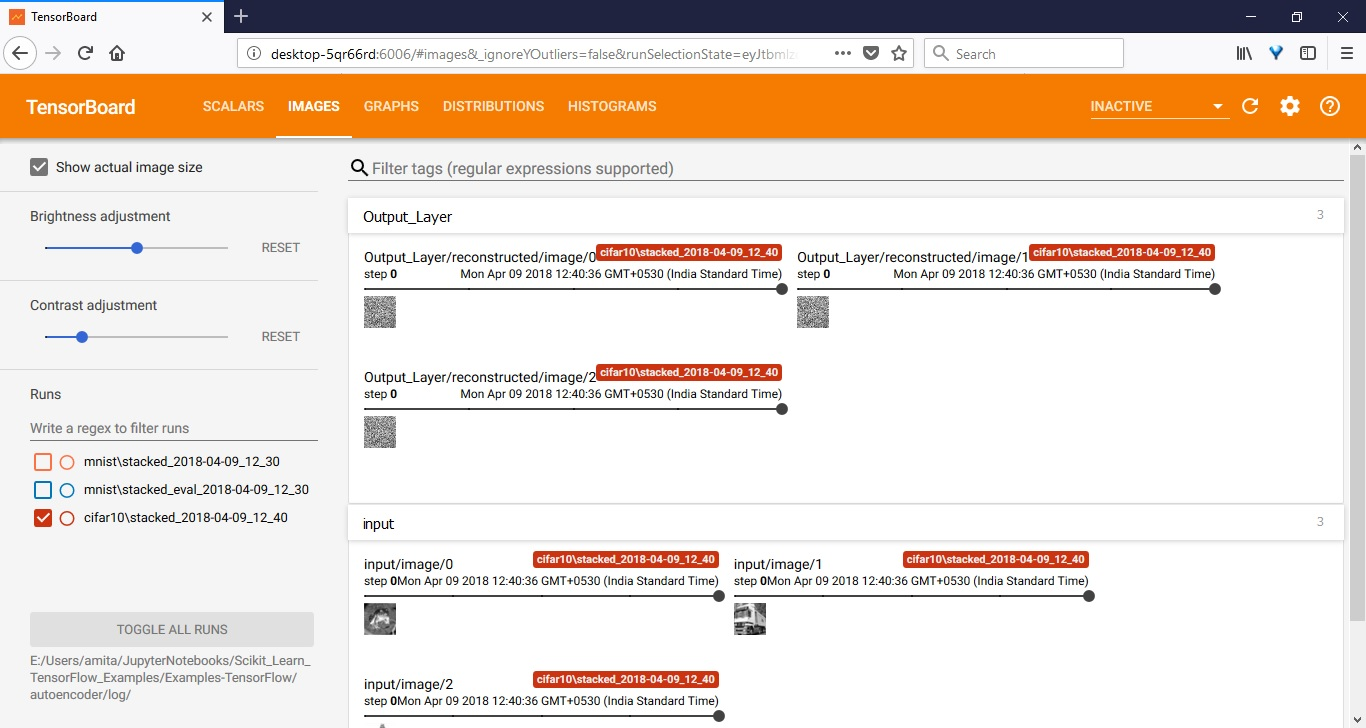
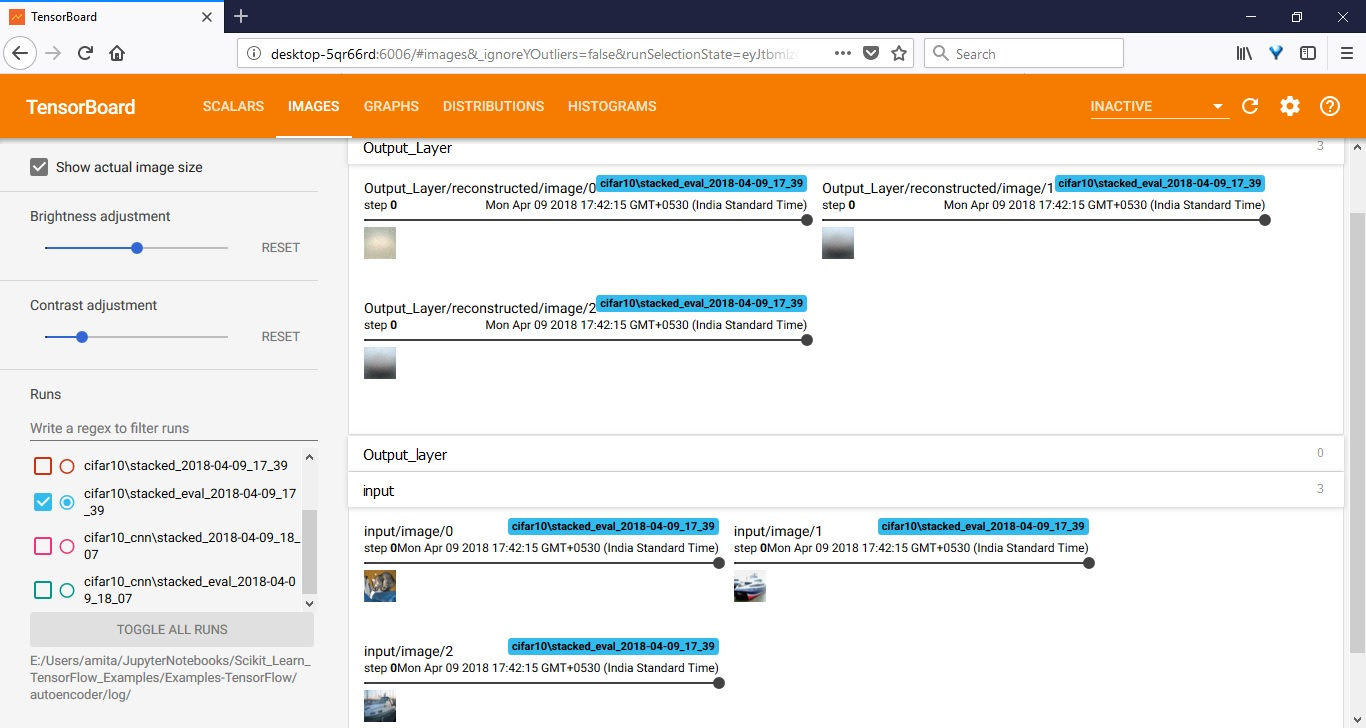
Evaluation added in CIFAR-10 cnn auto encoder, updated output of CIFAR-10 single hidden layer output

diff --git a/Examples-TensorFlow/autoencoder/cifar10_cnn_autoencoder.py b/Examples-TensorFlow/autoencoder/cifar10_cnn_autoencoder.py
@@ -24,7 +24,7 @@ def prepare_data():
     print("Size of:")
     print("- Training-set:\t\t{}".format(len(images_train)))
     print("- Test-set:\t\t{}".format(len(images_test)))
-    return images_train[:50],images_test
+    return images_train,images_test
 
 
 def weight_init(shape,name):
@@ -120,6 +120,9 @@ def autoencoder(x,type='stacked',layer=2,activation=tf.nn.relu,regularization=tf
     with tf.name_scope('Output_layer'):
         output = tf.identity(l6, name="encoded_representation")  # the latent representation of the input image.
         # print("-----------output ", output.shape)
+        x_eval_image = tf.reshape(output, [-1, 32, 32, 3])
+        tf.summary.image('reconstructed', x_eval_image, 3)
+
     #Loss
     with tf.name_scope('Loss'):
         #loss = tf.sqrt(tf.reduce_mean(tf.square(output - x)), name="loss")
@@ -160,8 +163,8 @@ def main():
     writer, writer1,summary_op = create_summaries(loss, x, encoding, output)
     saver = tf.train.Saver()
     #Start Training
-    n_epoch = 5
-    batch_size = 5
+    n_epoch = 50
+    batch_size = 1000
     with tf.Session() as sess:
         sess.run(tf.global_variables_initializer())
         writer.add_graph(sess.graph)
@@ -178,7 +181,7 @@ def main():
                 #print("idx : {} - n_batches : {}".format(idx,n_batches))
                 X_batch = cifar_train[idx:idx+batch_size]
                 #X = X_batch.eval()
-                print(X_batch.shape)
+                #print(X_batch.shape)
                 idx +=batch_size
                 if iteration % 10 == 0:
                     _, s = sess.run([train_step, summary_op], feed_dict={x: X_batch})
@@ -189,12 +192,13 @@ def main():
         if not os.path.exists(model_path):
             os.makedirs(model_path)
         saver.save(sess, os.path.join(model_path, "my_model_all_layers.ckpt"))
-        # X_test = mnist.test.images[0:5]
+        X_test = cifar_test[0:5]
+        #X_test = sample_test.reshape(sample_test.shape[0],32,32,3)
         # # evalaution
-        # _, sum1 = sess.run([x_image, summary_op], feed_dict={x: X_test})
-        # _, sum2 = sess.run([output, summary_op], feed_dict={x: X_test})
-        # writer1.add_summary(sum1)
-        # writer1.add_summary(sum2)
+        _, sum1 = sess.run([x_image, summary_op], feed_dict={x: X_test})
+        _, sum2 = sess.run([output, summary_op], feed_dict={x: X_test})
+        writer1.add_summary(sum1)
+        writer1.add_summary(sum2)
 
 
 if __name__ == '__main__':
